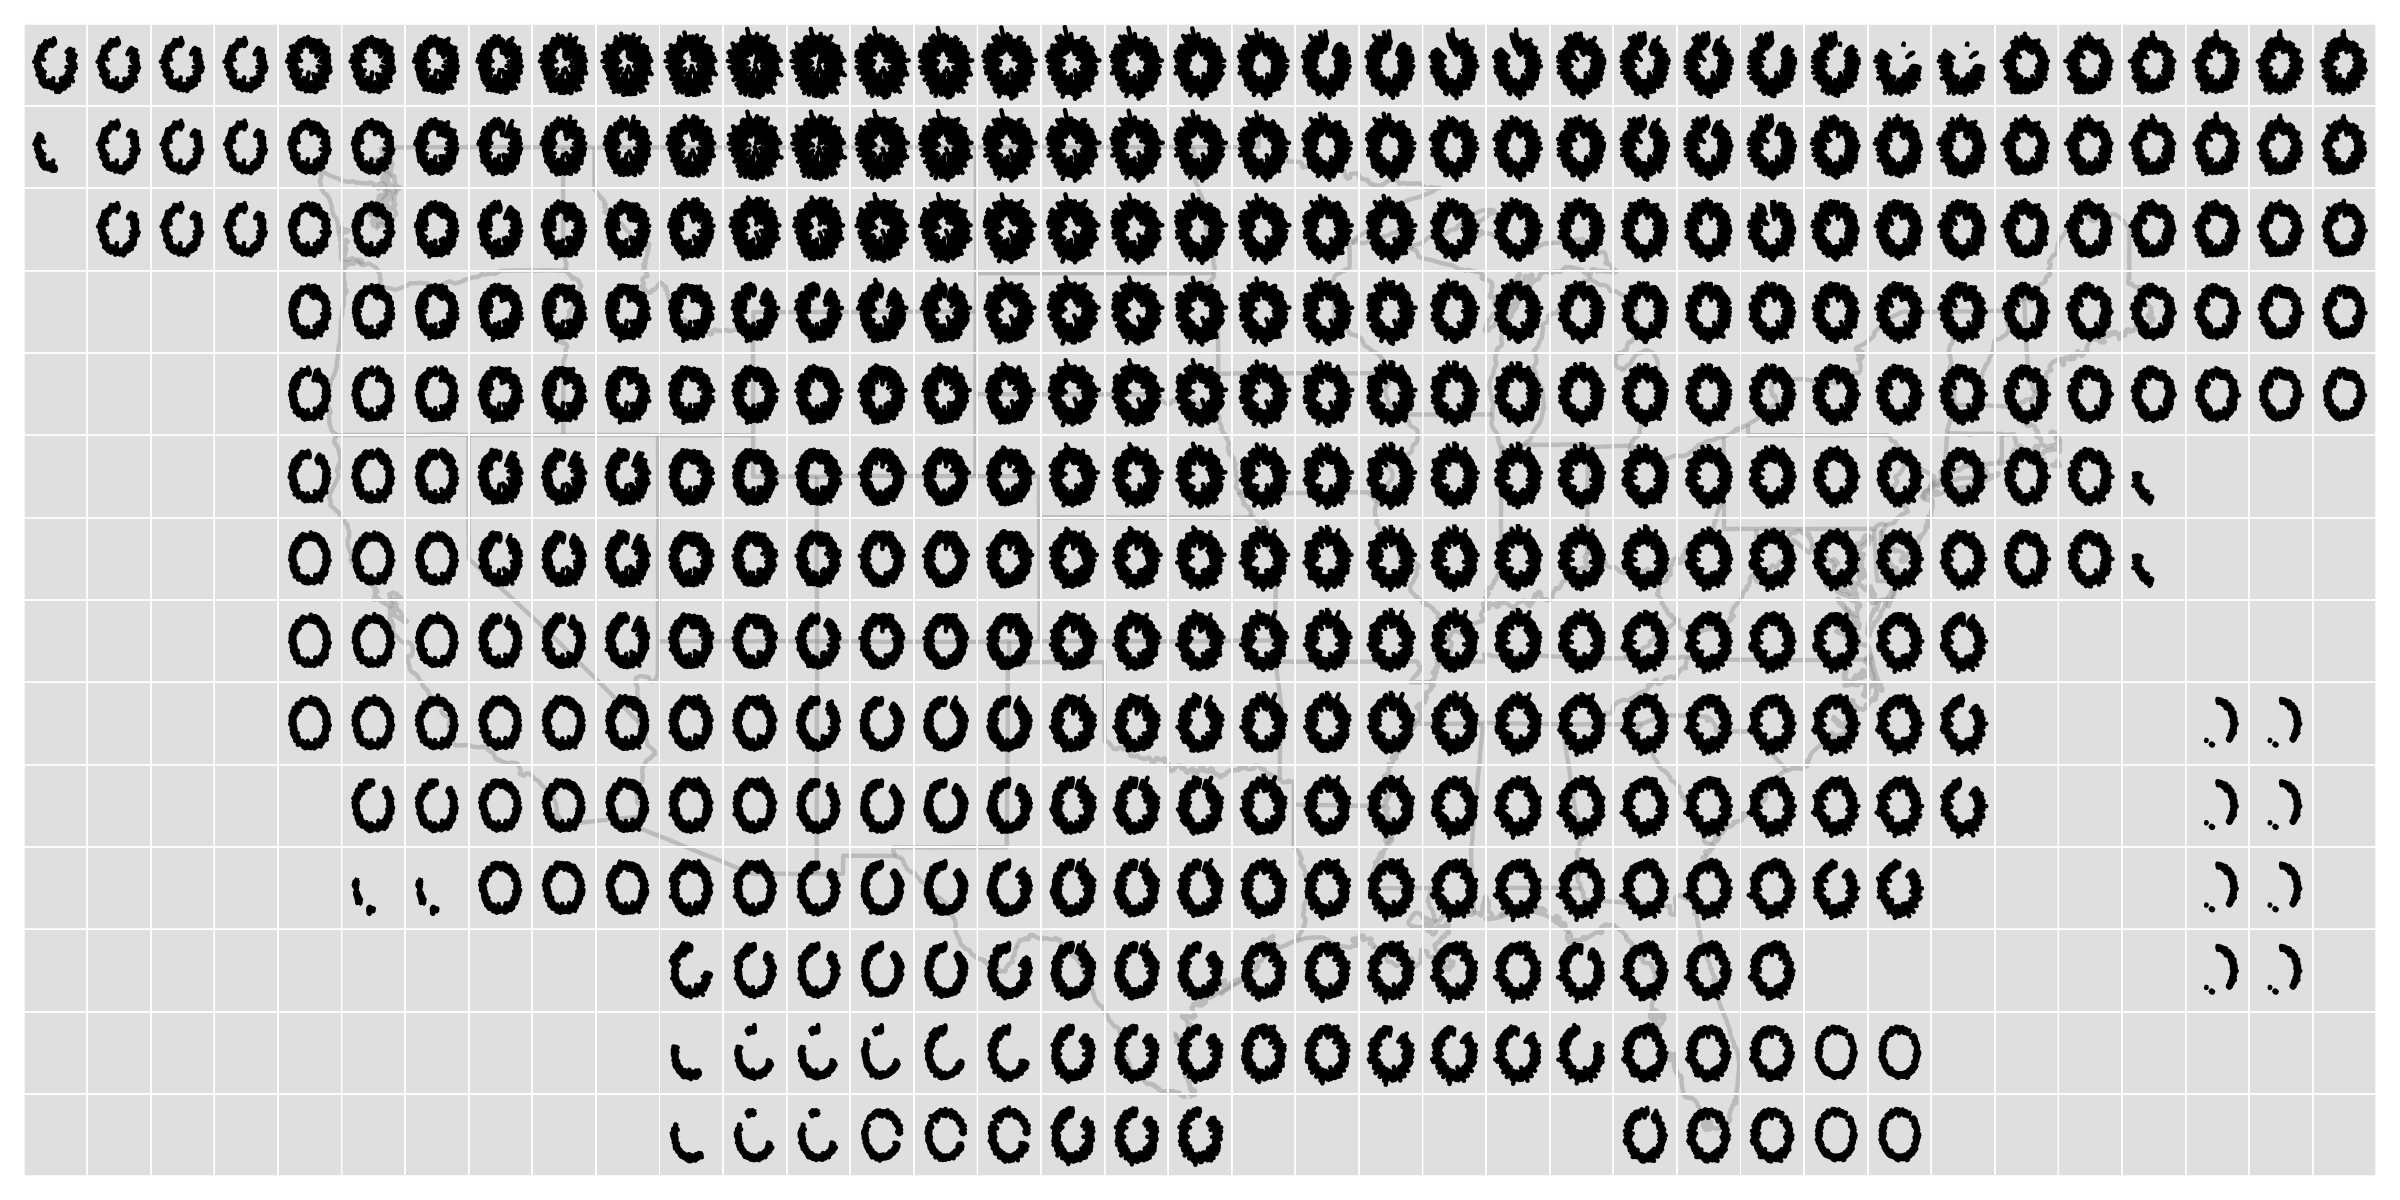
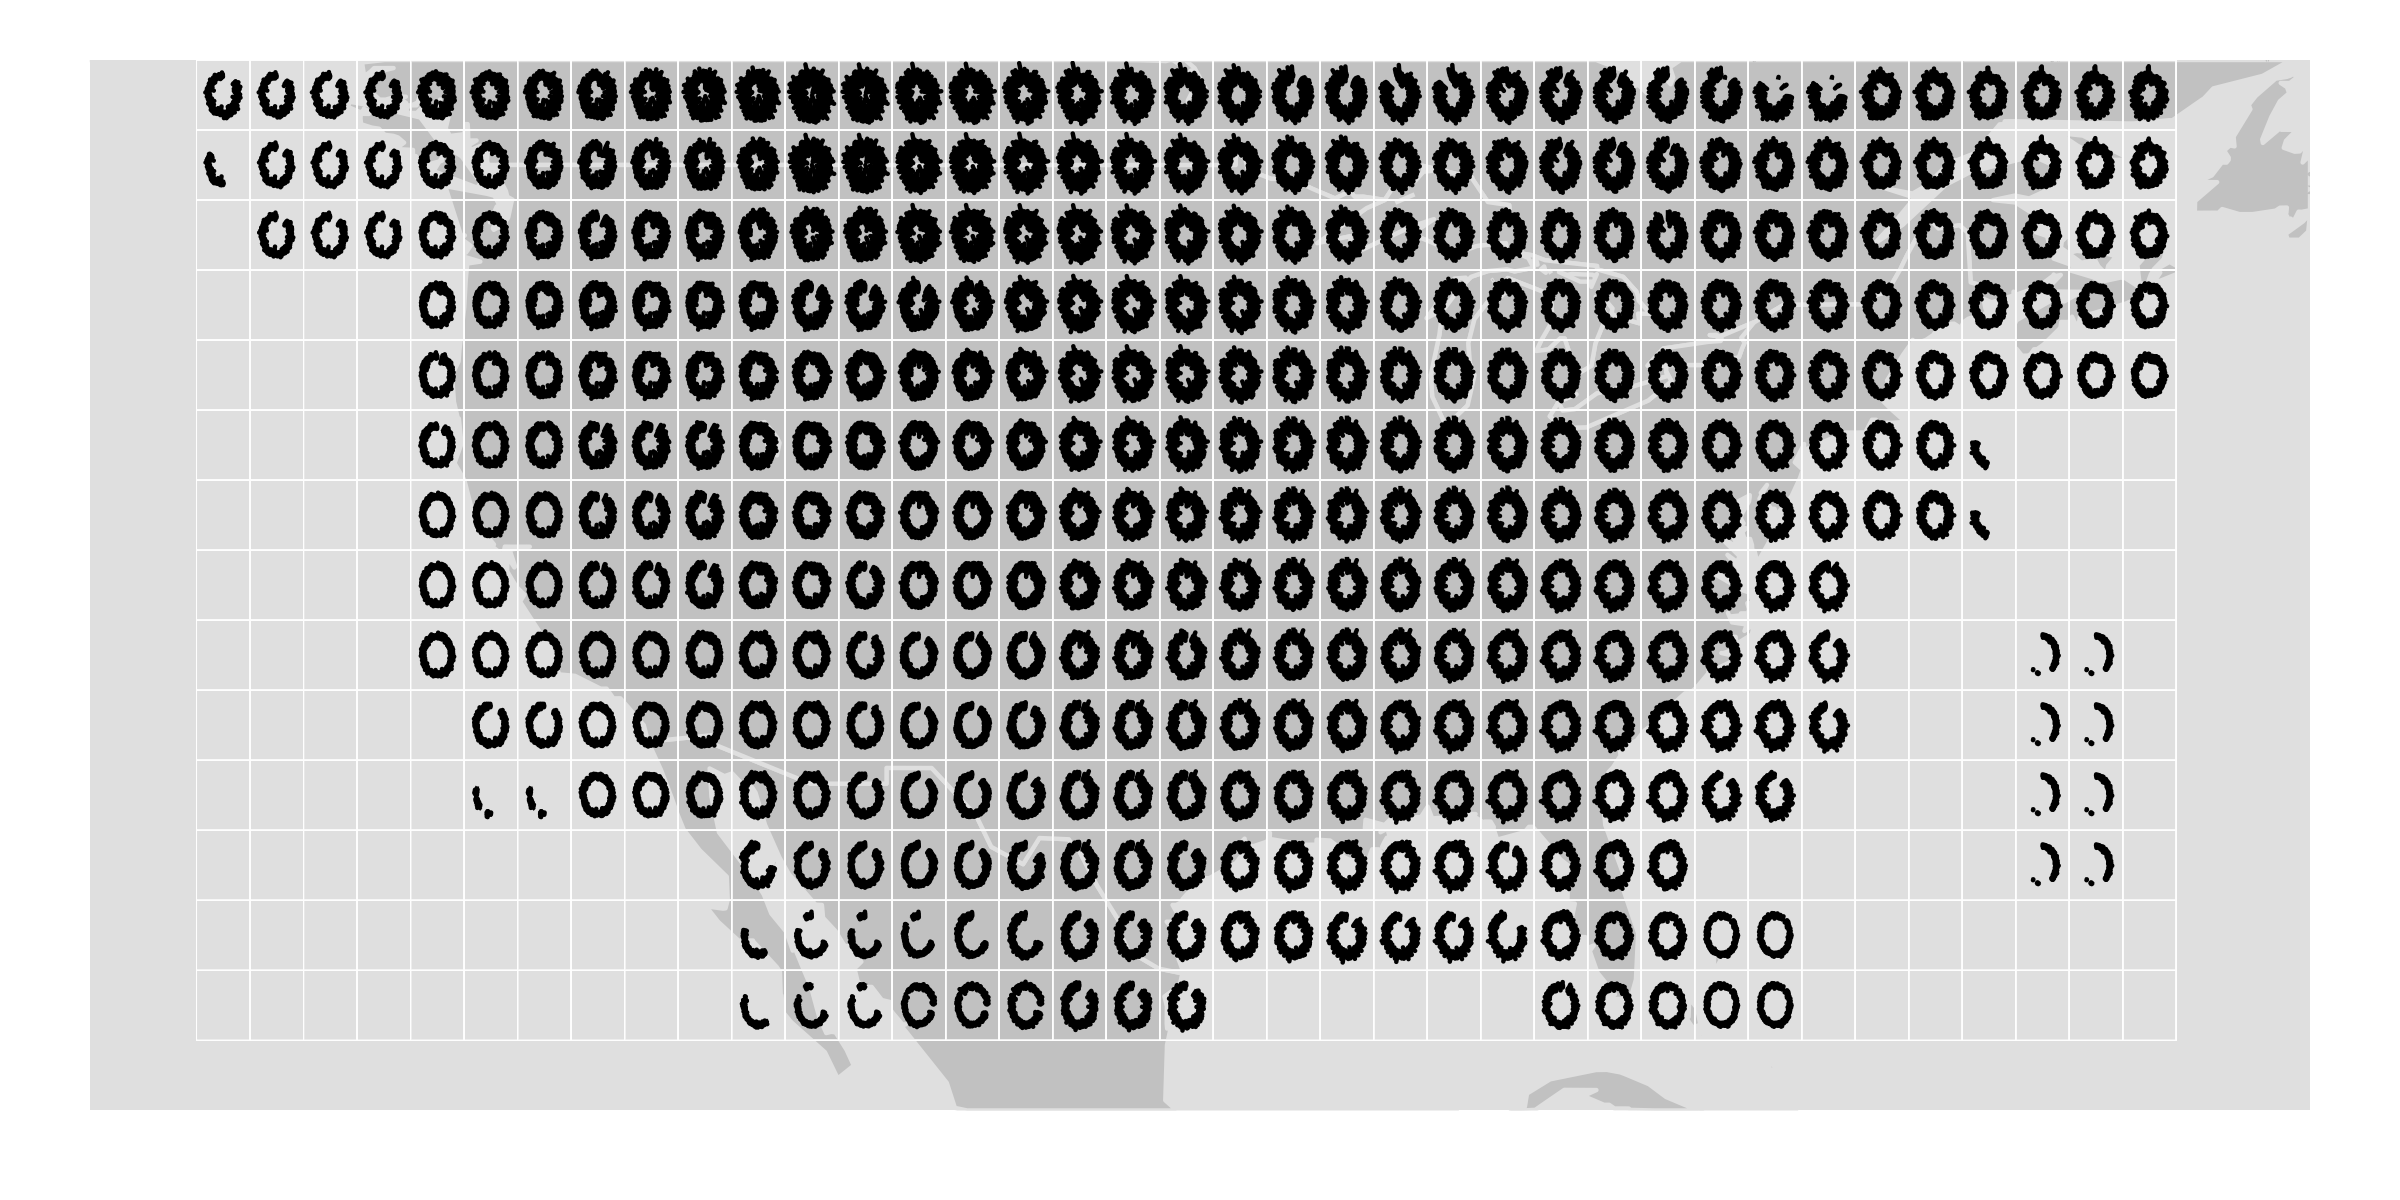
re-worked up to computation

diff --git a/paper.tex b/paper.tex
@@ -83,8 +83,12 @@ For temporal data, time measurements can be treated as variables in a multivaria
 
 Icon plots are used, infrequently, to examine multivariate data. For large data sets it is infeasible to digest the quantity of icons, and for multivariate data there is no natural order so it can be like having a mountain of little stamps to rearrange and organize, in order to understand the structures present in the data. An early paper on multivariate graphics \citep{kleiner:1981} and a recent paper \citep{hurley:2010} propose some approaches for organizing the icons. Ordering of icons is not an issue with spatiotemporal data, because it is naturally handled by spatial location. The spatial trend, or continuity, usually gives the plot an appearance of texturing on a landscape, make it easier to digest patterns among the icons.
 
+In this paper we describe the algorithm for creating glyphs of temporal data on maps, generally in R, and the various modifcations that can enable different features in the data to be detected. The next section (\ref{sec:glyph-map}) describes the use of glyphs on maps, and Section \ref{sec:construction} explains how to construct glyph-maps. Section \ref{sec:reference} discusses the use of reference lines and boxes, and Section \ref{sec:scale} visits issues of scaling values for different information purposes. Generalizations to different types of icons are described in Section \ref{sec:scatter}. Glyph-maps work nicely with gridded data, but many spaiottemporaral data sets have irregular spatial locations. Possible adjustments are discussed in Section \ref{sec:irregular}. Code and data is available in the online supplementary materials.
+
+\section{Glyph-maps}~\label{sec:glyph-map}
+
 % Reference Tufte's small multiples
-Figure \ref{fig:gistemp-pred} (left) shows the time series icons and star glyphs drawn for each spatial location of the predicted temperature data across the USA, we call it a \emph{glyph-map}. The data contains 2$^o$x2$^o$ gridded temperature anomalies 1950-2010, from the GISTEMP surface temperature data provided by the Earth System Research Laboratory, Physical Sciences Division, National Oceanic and Atmospheric Administration. Most locations observe an increasing temperature, to varying degrees, over this time period. A few locations show a decline. These locations tend to be different from their neighbors, which might suggest isolated data problems.
+\emph{Glyph-maps} are maps where a glyph is displayed at each spatial location to represent multiple data values. To explain the glyph-map, we use data of 2$^o$x2$^o$ gridded temperature anomalies, from the GISTEMP surface temperature data provided by the Earth System Research Laboratory, Physical Sciences Division, National Oceanic and Atmospheric Administration. Ground station data was de-seasonalized, differenced from ***, and spatially averaged to obtain gridded measurements. Figure \ref{fig:gistemp-pred} shows the time series icons for each spatial location of predicted temperature for 1950-2010 across the USA. Most locations observe an increasing temperature, to varying degrees, over this time period. A few locations show a decline. These locations tend to be different from their neighbors, which might suggest isolated data problems. There is a difference in the temperature increase at different regions: steeper inclines can be seen in the north and western mountain region and across the Great Lakes, but inclines are flatter in the southeastern USA. 
 %The most seasonality occurs in north American. Some seasonal effects can also be seen in the Caribbean and in south American locations. Around the equator the temperatures are relatively warm for all seasons. Instead of radially displaying the temperature a glyph can be a regular time series, time displayed horizontally and temperature vertically (right plot). The structure perceived is different with this change in glyph type: locations at the equator have flat series, on land more varied temperatures. \citet{pickett:1988} introduced the idea of using icons on maps to display multivariate spatial data. This area of work has morphed into the field of metaphorical data displays, which creates abstract landscapes of spatial data, a digression from glyph-maps. \citet{gribov:2006} describes the use ogf glyph-maps for multivariate data also, with emphasis on the graphics software Gauguin. 
 
 \begin{figure}[htbp]
@@ -93,9 +97,15 @@ Figure \ref{fig:gistemp-pred} (left) shows the time series icons and star glyphs
 
   %\includegraphics[width=1\linewidth]{gistemp-polar-pred}
 
-  \caption{Glyph-maps of gridded predicted temperature anomaly data}
+  \caption{Glyph-map of predicted temperature anomaly data, from
+    1950-2010. Increasing trends can be seen over most of the USA,
+    with varying degrees of increase. Some isolated locations exhibit
+    steep declines, and inclines, perpahs indicative of some isolated
+    data problems.}
   \label{fig:gistemp-pred}
 \end{figure}
+
+*** Remove the strange data over ocean, and make the reference lines white?
 
 % Add time series as well as radial
 %\begin{figure*}[htp]
@@ -104,7 +114,19 @@ Figure \ref{fig:gistemp-pred} (left) shows the time series icons and star glyphs
 %\label{fig:glyph-map}
 %\end{figure*}
 
-In this paper we describe the algorithm for creating glyphs of temporal data on maps, generally in R, and the various modifcations that can enable different features in the data to be detected. The next section (\ref{sec:construction}) describes how to construct glyph-maps. Section \ref{sec:reference} discusses the use of reference lines and boxes, and Section \ref{sec:scale} visits issues of scaling values for different information purposes. Generalizations to different types of icons are described in Section \ref{sec:scatter}. Glyph-maps work nicely with gridded data, but may be less effective with irregular spatial locations. Possible adjustments are discussed in Section \ref{sec:irregular}. Code and data is available in the online supplementary materials.
+Figure \ref{fig:gistemp-pred} shows the star glyphs for each spatial location of raw temperature for 1880-2011 across the USA. The major feature to notice is the pattern of missing values, icons that do not complete the full circle. The high noon position of the circle is the first time point, Jan 1880, and it is this early time period that has missing values are a lot of locations. It was for this reason that the temporal model was fit just to 1950-2010 data. Another important feature is variability, indicated by the thickness of the circle. Some locations, particularly in the north western mountain region, have big variability in temperature, both low minima, and high maxima. At these locaations there are large fluctuations from the long term mean.
+
+\begin{figure}[htbp]
+  \centering
+  %\includegraphics[width=1\linewidth]{gistemp-pred}%
+
+  \includegraphics[width=1\linewidth]{gistemp-polar-raw}
+
+  \caption{Glyph-map of raw temperature anomaly data, from 1880-2011. Gaps in the full circle indicate missing values, and thickness of the circle indicates more variability in the measurements.}
+  \label{fig:gistemp-raw}
+\end{figure}
+
+*** Need to add reference circles.
  
 %\subsection{Glyph plots}
 
@@ -163,15 +185,15 @@ The graphics in this paper were created in R \citep{R} using {\tt ggplot2} \cite
 
 *** These figures need to be placed yet, but are here as a start on better climate data examples:
 
-\begin{figure}[htbp]
-  \centering
-  \includegraphics[width=1\linewidth]{gistemp-raw}%
+%\begin{figure}[htbp]
+%  \centering
+%  \includegraphics[width=1\linewidth]{gistemp-raw}%
 
-  \includegraphics[width=1\linewidth]{gistemp-polar-raw}
+%  \includegraphics[width=1\linewidth]{gistemp-polar-raw}
 
-  \caption{Glyph-maps of gridded raw temperature anomaly data}
-  \label{fig:ref-gistemp}
-\end{figure}
+%  \caption{Glyph-maps of gridded raw temperature anomaly data}
+%  \label{fig:ref-gistemp}
+%\end{figure}
 
 
 
